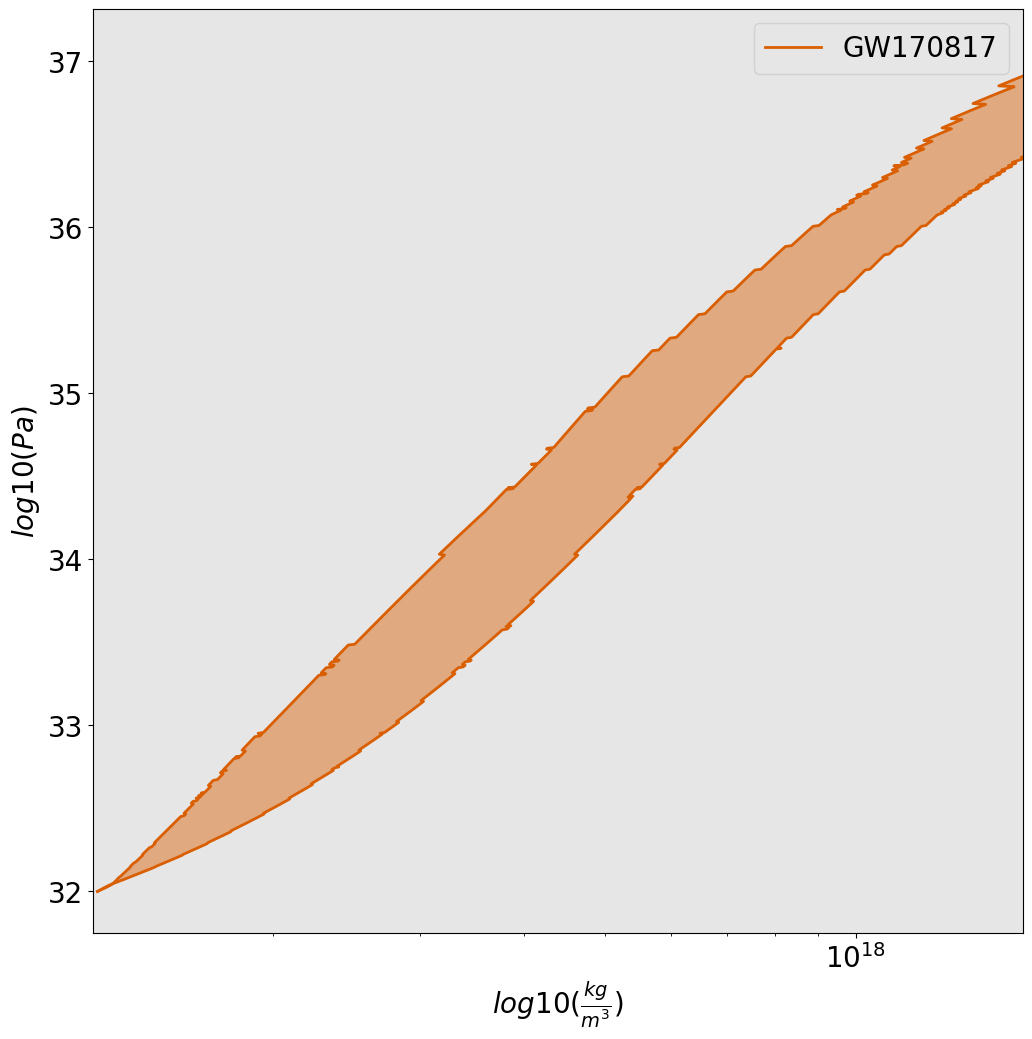
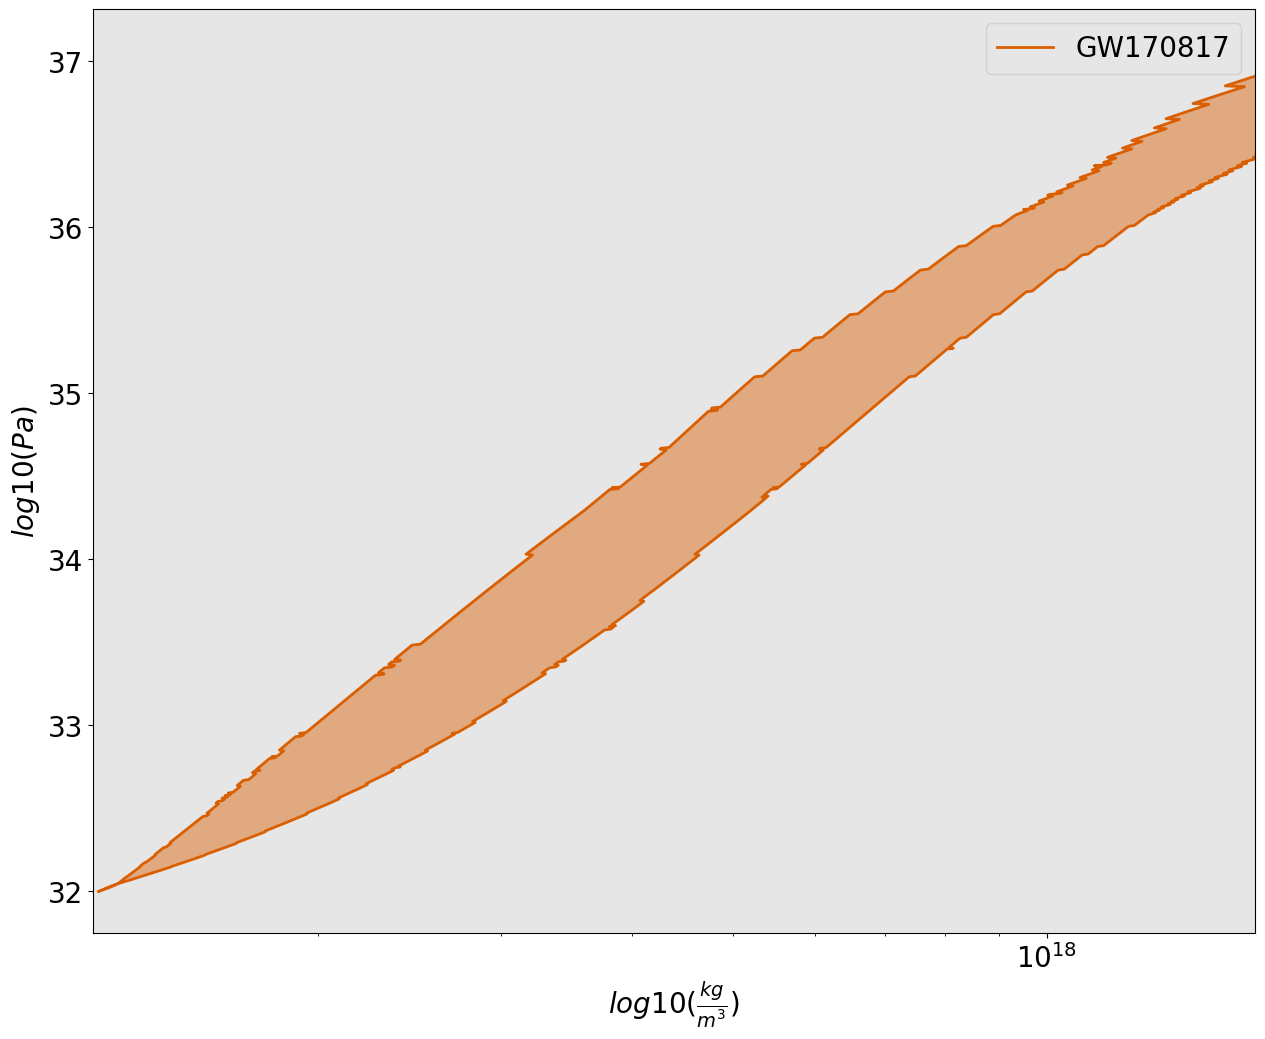
Plots of plots resembling Anarya's. 20th attempt.

diff --git a/joint_inference/development/confidence_interval.py b/joint_inference/development/confidence_interval.py
@@ -6,9 +6,9 @@ import corner
 def plot_intervals(outputfile):
     # Plots differently sourced confidence intervals on top of each other.
 
-#    Files = ["run_data/8th_cutoff_plotting/spectral_p_vs_rho_cutoff_W100_S10000_GW170817_confidence.txt"]
-#    labels = ["GW170817"]
-#    colors = ["#d95f02"]
+    Files = ["run_data/8th_cutoff_plotting/spectral_p_vs_rho_cutoff_W100_S10000_GW170817_confidence.txt"]
+    labels = ["GW170817"]
+    colors = ["#d95f02"]
 
 #    Files = ["run_data/8th_cutoff_plotting/spectral_p_vs_rho_cutoff_W100_S10000_J0740_confidence.txt"]
 #    labels = ["J0740"]
@@ -18,12 +18,12 @@ def plot_intervals(outputfile):
 #    labels = ["GW+EM"]
 #    colors = ["#1b9e77"]
 
-    Files = ["run_data/8th_cutoff_plotting/spectral_p_vs_rho_cutoff_W100_S10000_GW170817_confidence.txt", "run_data/8th_cutoff_plotting/spectral_p_vs_rho_cutoff_W100_S10000_J0740_confidence.txt", "run_data/8th_cutoff_plotting/spectral_p_vs_rho_cutoff_W100_S10000_GW170817_J0740_hierarchical_confidence.txt"]
-    labels = ["GW170817", "J0740", "GW+EM"]
-    colors = ["#d95f02", "#7570b3", "#000000"]
+#    Files = ["run_data/8th_cutoff_plotting/spectral_p_vs_rho_cutoff_W100_S10000_GW170817_confidence.txt", "run_data/8th_cutoff_plotting/spectral_p_vs_rho_cutoff_W100_S10000_J0740_confidence.txt", "run_data/8th_cutoff_plotting/spectral_p_vs_rho_cutoff_W100_S10000_GW170817_J0740_hierarchical_confidence.txt"]
+#    labels = ["GW170817", "J0740", "GW+EM"]
+#    colors = ["#d95f02", "#7570b3", "#000000"]
 
     pl.clf()
-    pl.figure(figsize=(12,12))
+    pl.figure(figsize=(15,12))
     pl.rc('font', size=20)
     pl.rc('axes', facecolor='#E6E6E6', edgecolor='black')
     pl.rc('xtick', direction='out', color='black', labelcolor='black')
